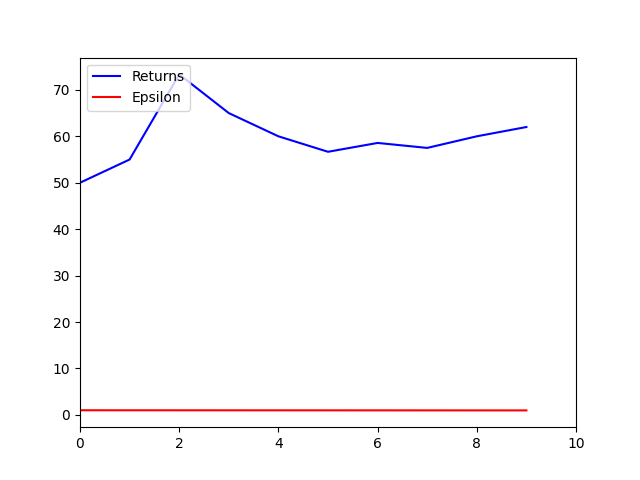
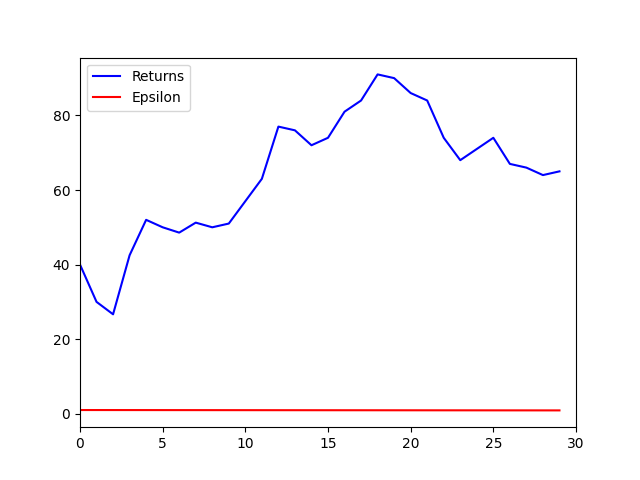
just another attempt

diff --git a/model.py b/model.py
@@ -15,13 +15,13 @@ class AtariNet(nn.Module):
         self.flatten = nn.Flatten()
         self.dropout = nn.Dropout(p=0.2) #drops some random weights to add some randomness
 
-        self.action_value1 = nn.Linear(384, 512)
-        self.action_value2 = nn.Linear(512, 512)
-        self.action_value3 = nn.Linear(512, nb_actions)
+        self.action_value1 = nn.Linear(384, 256)
+        self.action_value2 = nn.Linear(256, 256)
+        self.action_value3 = nn.Linear(256, nb_actions)
 
-        self.state_value1 = nn.Linear(384, 512)
-        self.state_value2 = nn.Linear(512, 512)
-        self.state_value3 = nn.Linear(512, 1)
+        self.state_value1 = nn.Linear(384, 256)
+        self.state_value2 = nn.Linear(256, 256)
+        self.state_value3 = nn.Linear(256, 1)
 
 
     def forward(self, x):

diff --git a/test_model.py b/test_model.py
@@ -22,10 +22,10 @@ model = AtariNet(nb_actions= 14)
 
 model.to(device)
 
-model.load_the_model('models/690.pt')
+model.load_the_model('models/latest.pt')
 print(device)
 agent = Agent(model=model,device=device,epsilon=0.05,
-              nb_warmup=5000, nb_actions=14, learning_rate=0.00001,memory_capacity=1000000,
+              nb_warmup=5000, nb_actions=14, learning_rate=0.00001,memory_capacity=100000,
                 batch_size=64)
 
 agent.test(env=environment)

diff --git a/main.py b/main.py
@@ -25,7 +25,7 @@ model.to(device)
 model.load_the_model()
 
 agent = Agent(model=model,device=device,epsilon=1.0,
-              nb_warmup=5000, nb_actions=14, learning_rate=0.00001,memory_capacity=1000000,
+              nb_warmup=5000, nb_actions=14, learning_rate=0.00025,memory_capacity=50000,
                 batch_size=64)
 
 agent.train(env=environment,epochs=200000)
